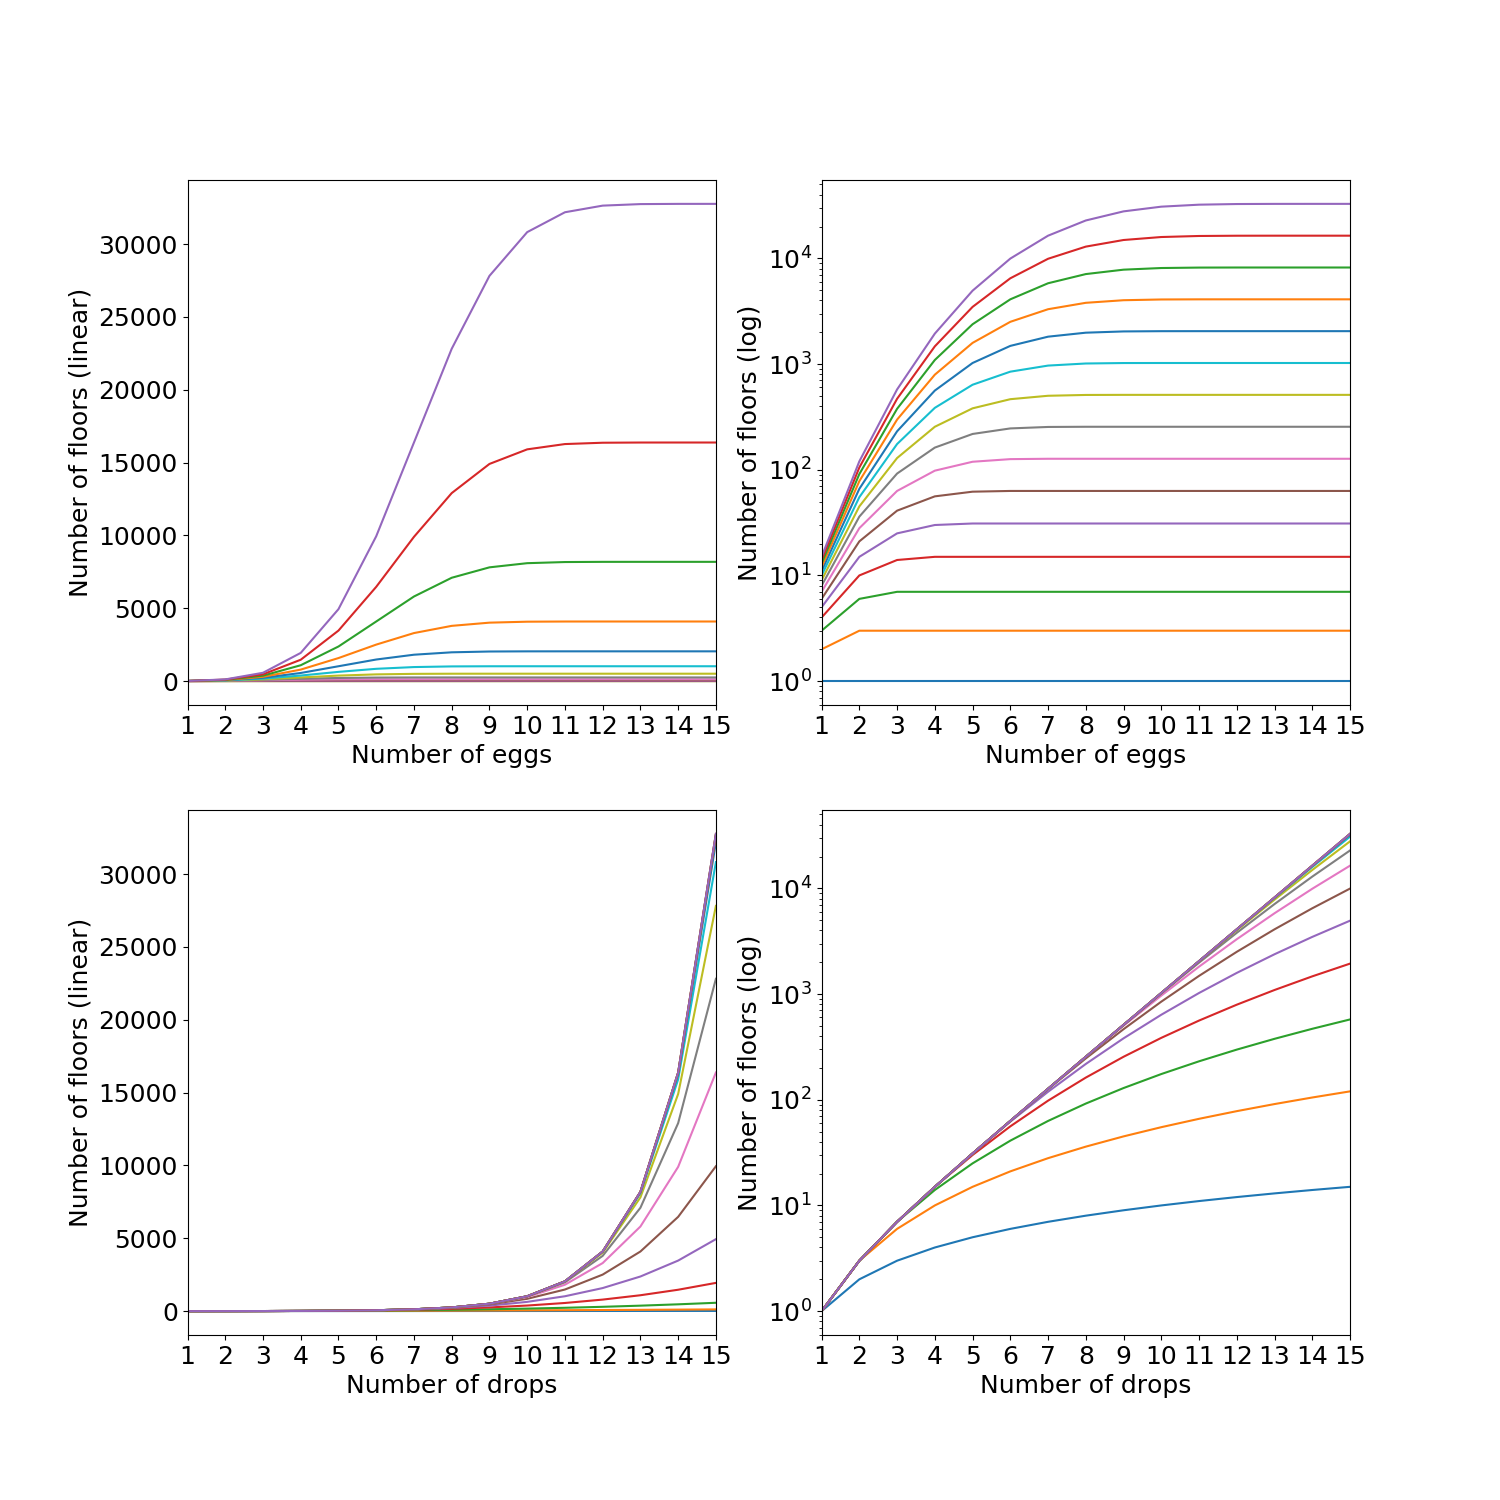
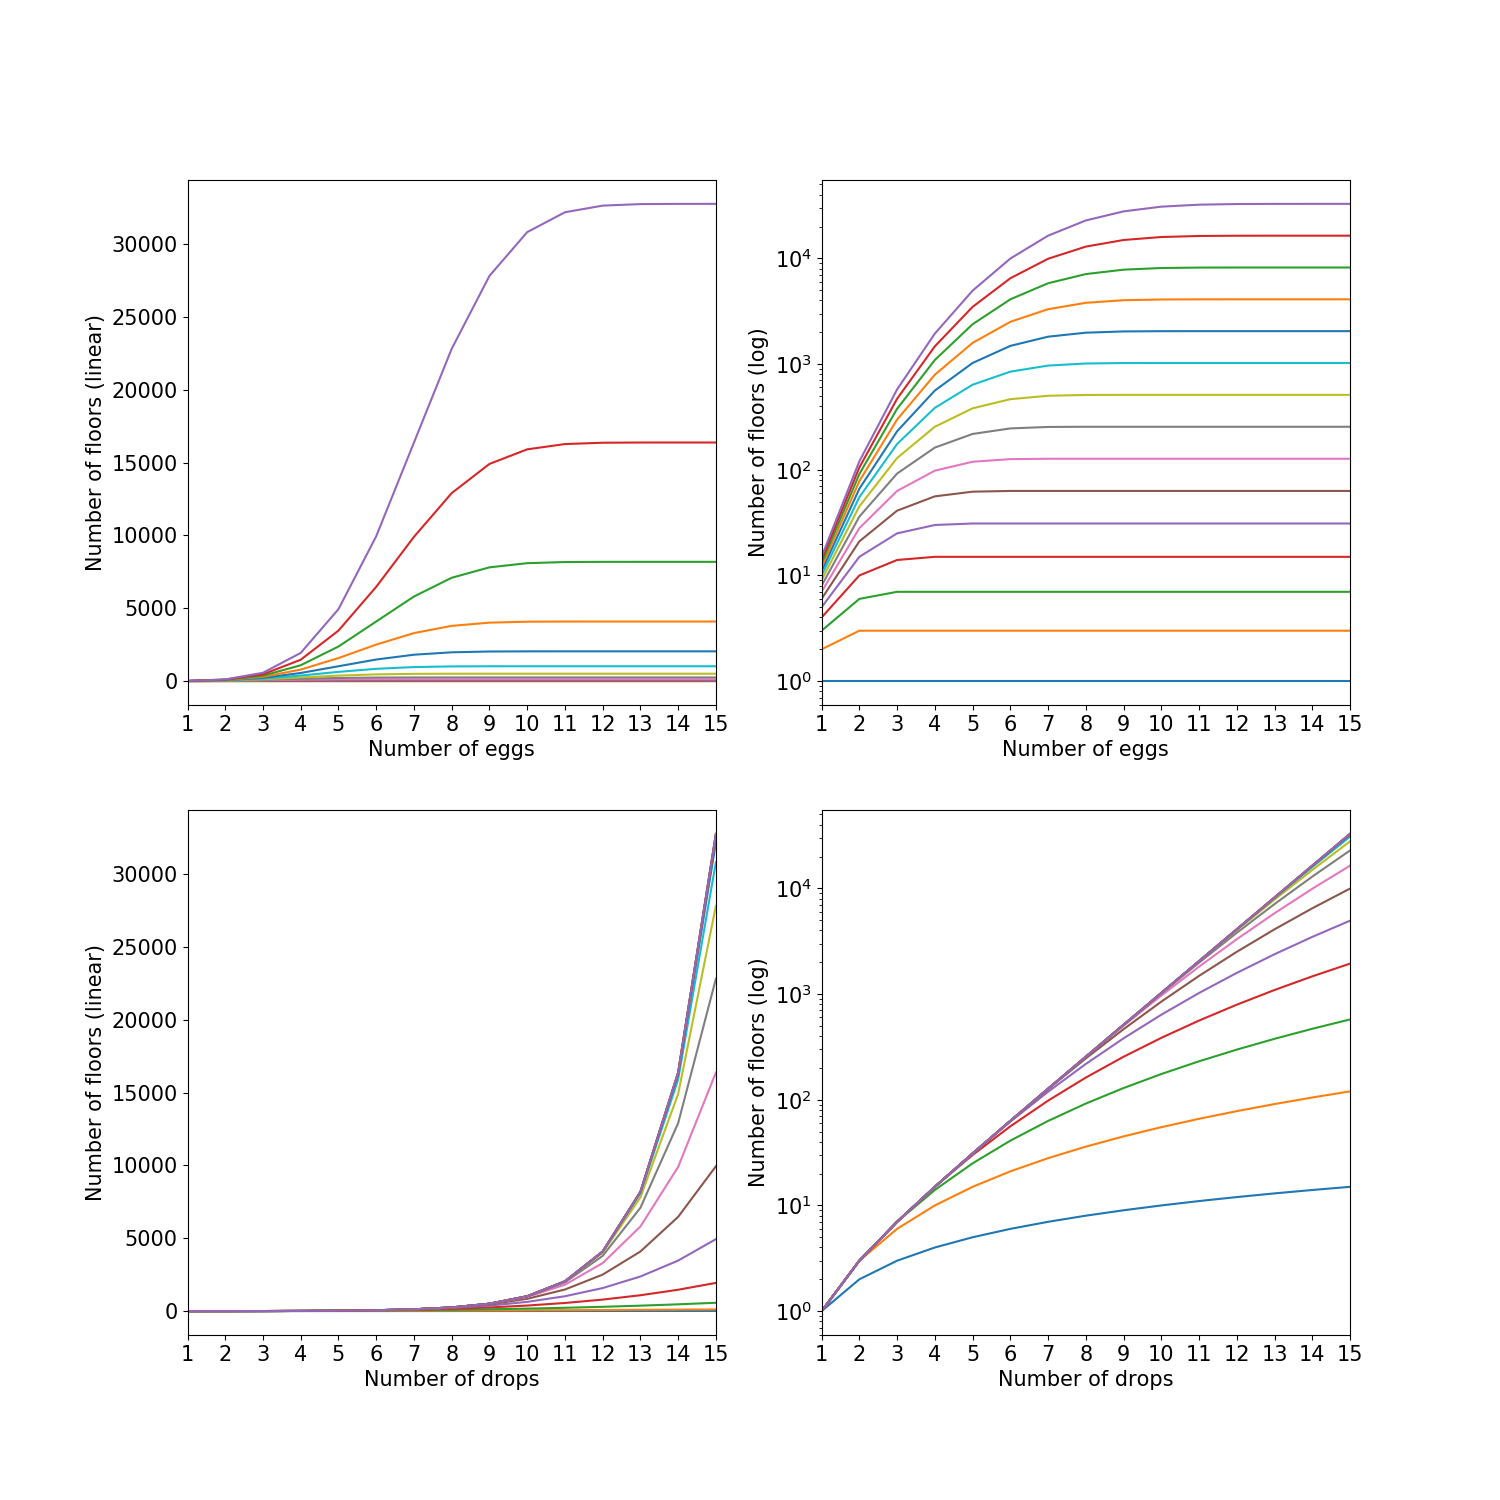
Update content

diff --git a/content/31-math-puzzles-with-analytical-solutions.md b/content/31-math-puzzles-with-analytical-solutions.md
@@ -260,7 +260,7 @@ Table: Number of floors that can be checked with $x$ drops and $n$ eggs
 You'll notice that the upper right of the table stays the same, even if you increase the number of eggs you have.
 You can see this more clearly in this visualization.
 
-![Visualizing the floor state space](./images/egg-puzzle.png){ .fullwidth }
+![The relationship of number of drops and egg and the number of floor that can be checked.](./images/egg-puzzle.png){ .fullwidth }
 
 There's a minimal number of drops required to find the floor, even if you have unlimited eggs.
 
